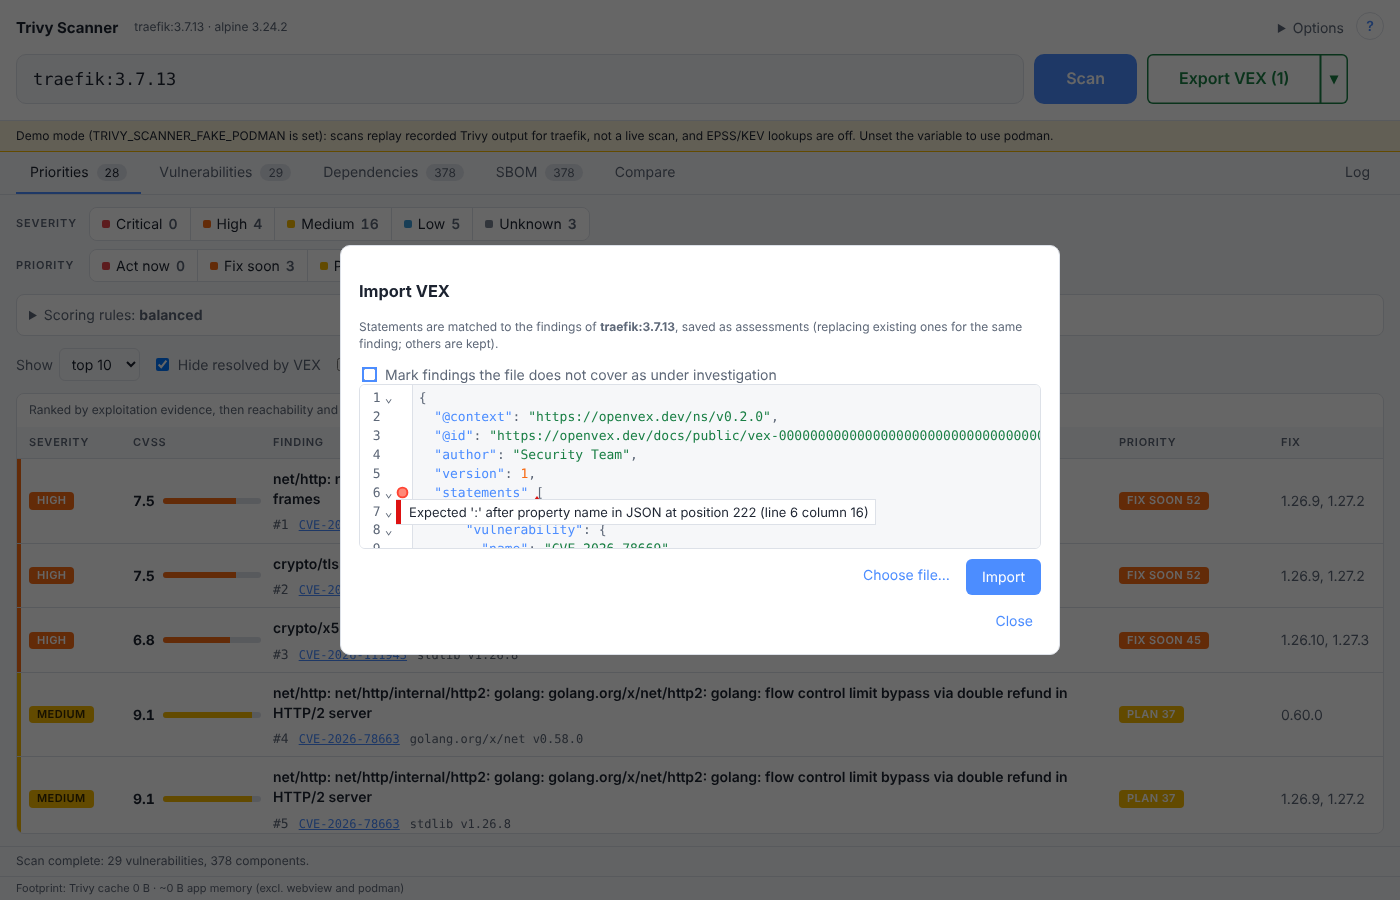
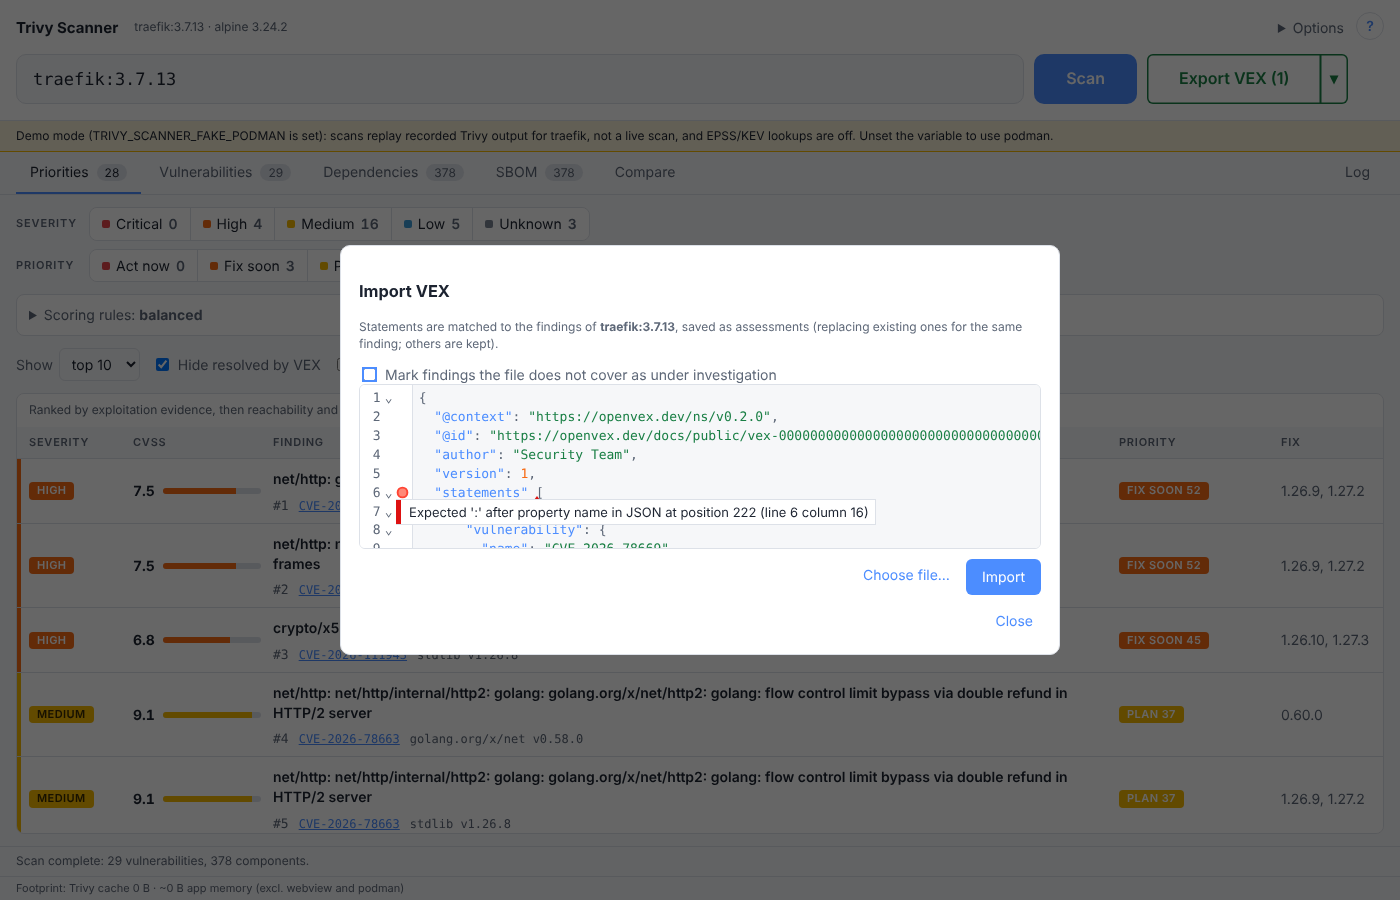
Move the no-CVSS fixture row, stop Vulnerabilities cells wrapping badly, add estimated-CVSS screenshots
Claude-Session: https://claude.ai/code/session_0197cni9qsUfTWpgBLJp1Two

diff --git a/frontend/src/components/VulnsPanel.vue b/frontend/src/components/VulnsPanel.vue
@@ -86,12 +86,12 @@ const { scroller, rows: visible, before, after, vMeasure } = useVirtualList(rows
         <col style="width: 110px" />
         <col style="width: 90px" />
         <col style="width: 140px" />
-        <col style="width: 16%" />
+        <col style="width: 14%" />
         <col style="width: 100px" />
-        <col style="width: 100px" />
-        <col style="width: 92px" />
+        <col style="width: 140px" />
+        <col style="width: 140px" />
         <col style="width: 60px" />
-        <col style="width: 150px" />
+        <col style="width: 180px" />
         <col />
       </colgroup>
       <thead>

diff --git a/frontend/src/style.css b/frontend/src/style.css
@@ -383,6 +383,16 @@ td {
 tr.row {
   cursor: pointer;
 }
+/* Short cells stay on one line (a pill or version list that wraps reads as broken); the title takes the slack. */
+#vuln-table td {
+  white-space: nowrap;
+  word-break: normal;
+}
+#vuln-table td:last-child {
+  white-space: normal;
+  min-width: 260px;
+  word-break: break-word;
+}
 tr.row:hover td {
   background: #ffffff08;
 }

diff --git a/internal/trivy/fixtures/README.md b/internal/trivy/fixtures/README.md
@@ -3,7 +3,7 @@
 Real output of Trivy, recorded once. It is used **only** by the Go tests and, when
 `TRIVY_SCANNER_FAKE_PODMAN=1` is set on a development build, by the screenshot script
 (`scripts/screenshots.sh`). Normal runs, `wails3 dev` included, use real podman. Nothing
-here is synthetic, with one exception: the `CVSS` block of CVE-2026-78667 in `traefik_3.7.13.json` was removed by hand so the UI has a finding with no reported score (shown as an estimate). Re-recording drops that edit.
+here is synthetic, with one exception: the `CVSS` block of CVE-2026-97031 (stdlib) in `traefik_3.7.13.json` was removed by hand so the UI has a finding with no reported score (shown as an estimate). Re-recording drops that edit.
 
 | File | What it is | Used for |
 |---|---|---|
